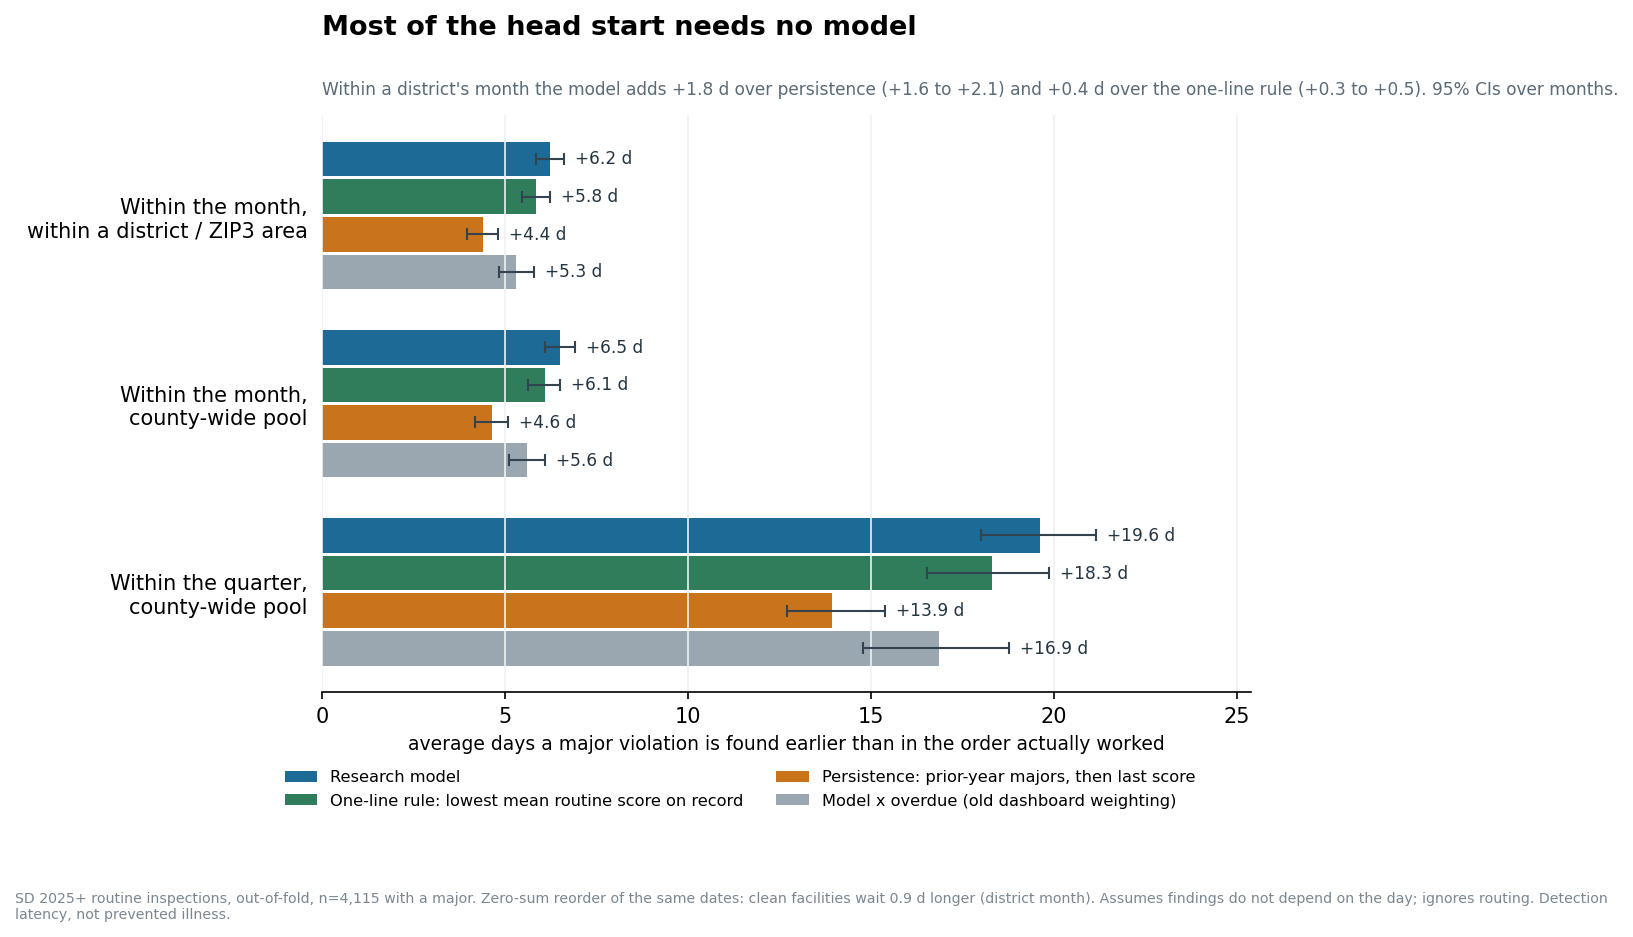
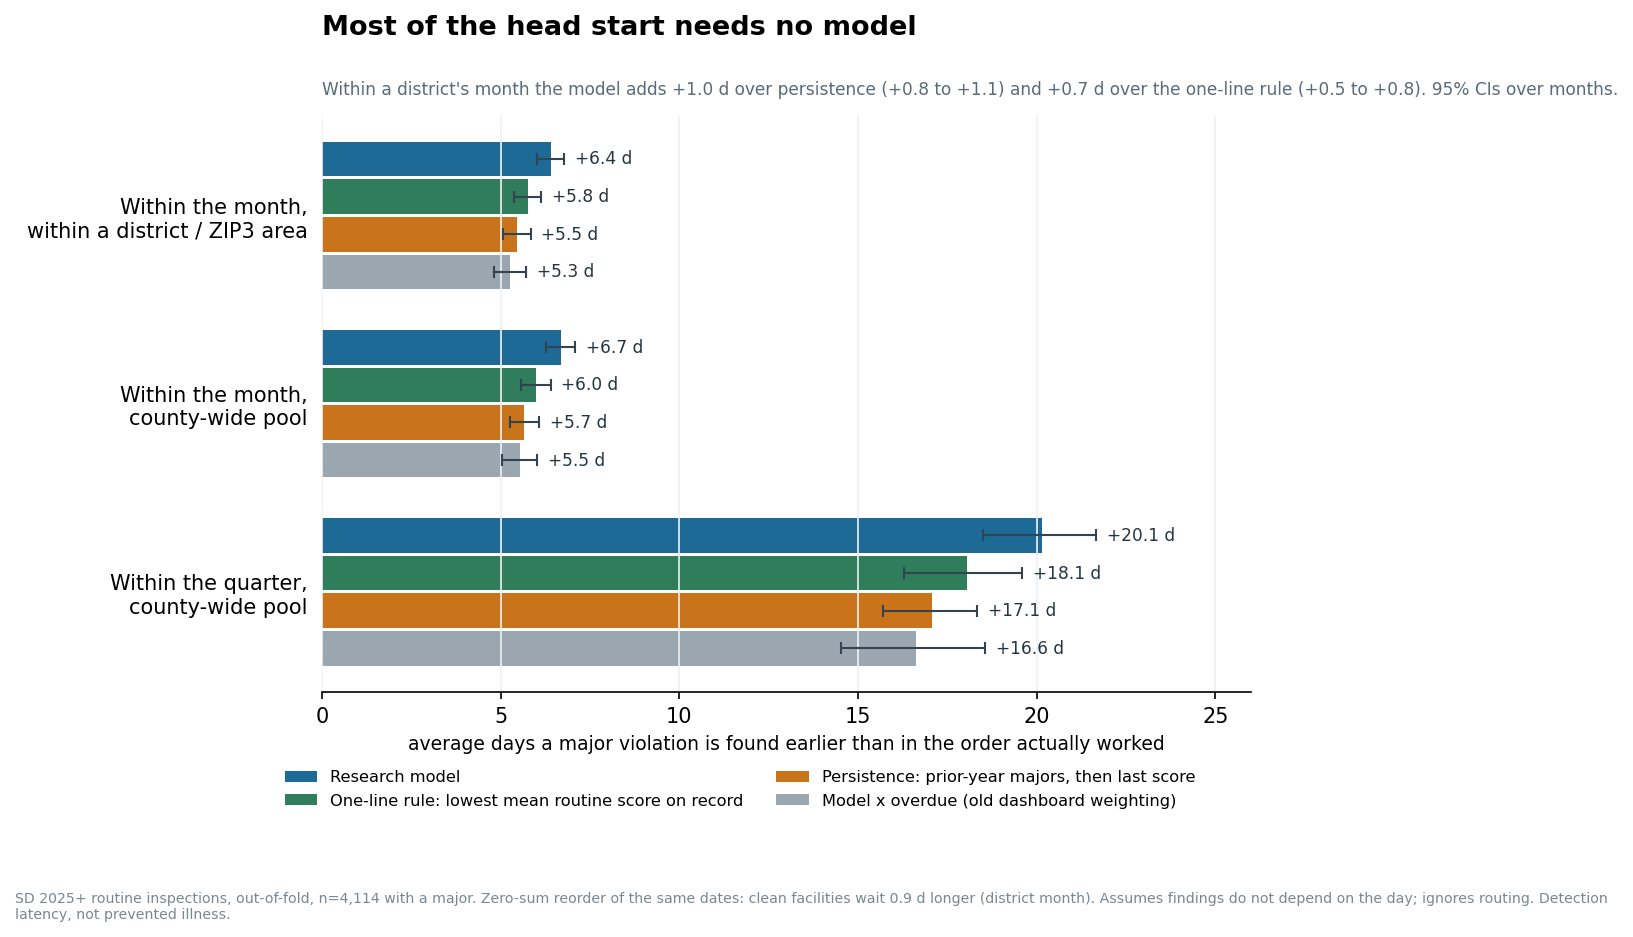
Regenerate figures and the dashboard on the real data; state days as a share of the routine gap
Charts and dashboard.html rebuilt from the 2026-09-19 pull (CSV rebuilt with
fetch_sdfood.py --csv-only; inspections through 2026-09-18) after the
September 2026 fixes. The page is still counts only and passes privacy_gate.

Template text now says what its numbers support: days sooner comes with its
share of the 277-303-day gap between routine inspections, the income coverage
gaps come with their ZIP-clustered intervals, and "with ZIP it was just as
accurate" is corrected (with ZIP the model ranks slightly worse, AUC -0.006,
95% CI -0.011 to -0.002). export_dashboard.py computes the new fields from
data/research_results.json, so the page still has no hand-typed figures.

diff --git a/dashboard.template.html b/dashboard.template.html
@@ -79,7 +79,7 @@ tbody tr:last-child td{border-bottom:none}
     <div class="card"><img src="IMG_GAINS" alt="Cumulative gains for the one-line rule, the research model and persistence">
       <p><b>Inspect the top 20% first and find ~<span data-s="top20_rule"></span> of all major violations</b> (20% on the calendar alone). That is the <b>one-line rule</b>: lowest mean routine score on record first, <span data-s="lift_rule"></span> the base rate of <span data-s="base_rate"></span>. The research model finds <span data-s="top20"></span> and persistence (prior-year majors, then last score) <span data-s="top20_persistence"></span>. Tested on <span data-s="test_n"></span> inspections none of them saw.</p></div>
     <div class="card"><img src="IMG_DAYS" alt="Days earlier major violations are found under each ordering">
-      <p><b>Within a council district's (or ZIP3 area's) month, the rule's order finds major violations ~<span data-s="days_rule"></span> days sooner</b> than the order actually worked (95% CI <span data-s="days_rule_ci"></span>). The research model adds <span data-s="days_over_rule"></span> day (95% CI <span data-s="days_over_rule_ci"></span>). Clean facilities wait <span data-s="clean_wait"></span> day longer. It assumes a finding does not depend on the day of the month and leaves routing aside: detection within an already-scheduled batch.</p></div>
+      <p><b>Within a council district's (or ZIP3 area's) month, the rule's order finds major violations ~<span data-s="days_rule"></span> days sooner</b> than the order actually worked (95% CI <span data-s="days_rule_ci"></span>): <span data-s="days_rule_share"></span> of the <span data-s="gap"></span>-day gap between a facility's routine inspections. The research model adds <span data-s="days_over_rule"></span> day (95% CI <span data-s="days_over_rule_ci"></span>; <span data-s="days_over_rule_share"></span> of that gap). Clean facilities wait <span data-s="clean_wait"></span> day longer. It assumes a finding does not depend on the day of the month and leaves routing aside: detection within an already-scheduled batch.</p></div>
   </div>
   <div class="note"><b>Trained</b> on routine inspections <b><span data-s="train_span"></span></b>; <b>tested</b> on <b><span data-s="test_span"></span></b> (<span data-s="test_n"></span> inspections). Every figure on this page comes from that held-out window.<br><br><b>Stable across time:</b> AUC <span data-s="auc_rolling_rule"></span> for the rule and <span data-s="auc_rolling"></span> for the model over three separate cutoffs (main test: rule <span data-s="auc_rule"></span>, model <span data-s="auc"></span>, persistence <span data-s="auc_persistence"></span>). Differences carry paired bootstrap 95% CIs. Method and code in the repository.</div>
 
@@ -88,7 +88,7 @@ tbody tr:last-child td{border-bottom:none}
     <div class="card"><img src="IMG_FAIRNESS" alt="Predicted vs actual major-violation rate by ZIP income quartile">
       <p><b>Flag rates and actual rates.</b> The model's predicted rate is within <span data-s="cal_min"></span> to <span data-s="cal_max"></span> points of the actual rate in every ZIP-income quartile. Actual rates are nearly flat across income (<span data-s="actual_ratio"></span>, lowest to highest quartile), and the rule flags low-income ZIPs at <span data-s="rule_flag_ratio"></span> the rate of high-income ones (the model: <span data-s="flag_ratio"></span>).</p></div>
     <div class="card" style="display:flex;flex-direction:column;justify-content:center">
-      <p style="font-size:13.5px"><b>Coverage by income group.</b> Share of major violations in the top 20%, lowest to highest income quartile: one-line rule <b><span data-s="recall_rule"></span></b>; research model <span data-s="recall_model"></span>. With about 24 ZIPs per quartile, differences of a few points are within chance: this shows no detectable gap, not proven evenness (intervals in <code>FAIRNESS.md</code>). The model uses no ZIP code: with ZIP it was just as accurate, and its coverage ran <span data-s="recall_zip"></span>.</p>
+      <p style="font-size:13.5px"><b>Coverage by income group.</b> Share of major violations in the top 20%, lowest to highest income quartile: one-line rule <b><span data-s="recall_rule"></span></b>; research model <span data-s="recall_model"></span>. Lowest minus highest quartile: rule <span data-s="recall_gap_rule"></span>, model <span data-s="recall_gap"></span>. Both intervals (which resample whole ZIPs) cover zero: no detectable gap, not proven evenness. The model uses no ZIP code: with ZIP it ranked slightly worse (AUC <span data-s="zip_auc"></span>) and its coverage ran <span data-s="recall_zip"></span>.</p>
       <p style="font-size:13.5px"><b>Safeguards:</b> keep routine inspections everywhere (this reorders visits within the schedule, it removes none) and monitor coverage by group. Full numbers in <code>FAIRNESS.md</code>.</p></div>
   </div>
 
@@ -115,7 +115,7 @@ $("#stats").innerHTML=[
   ["g",S.routine_per_yr?.toLocaleString(),"routine inspections / yr"],
   ["",S.major_per_yr?.toLocaleString(),"routine inspections finding a major violation / yr"],
   ["g",S.top20_rule!=null?S.top20_rule+"%":null,"of major violations in the rule's top 20%"],
-  ["g",S.days_rule!=null?"+"+S.days_rule+" d":null,"major violations found sooner, rule's order (district month)"],
+  ["g",S.days_rule!=null?"+"+S.days_rule+" d":null,`major violations found sooner, rule's order (district month; ${(S.t||{}).days_rule_share??"—"} of the routine gap)`],
 ].map(([c,n,l])=>`<div class="stat ${c}"><b>${n??"—"}</b><span>${l}</span></div>`).join("");
 document.querySelectorAll("[data-s]").forEach(el=>{el.textContent=(S.t||{})[el.dataset.s]??"—";});
 

diff --git a/export_dashboard.py b/export_dashboard.py
@@ -118,6 +118,13 @@ def main():
     pct = lambda v: f"{v*100:.0f}%"
     rng2 = lambda v: f"{min(v):.2f}–{max(v):.2f}"
     ci2 = lambda c: f"{c[0]:.1f}–{c[1]:.1f}"
+    # days sooner as a share of the gap between routine inspections (277 d after a major, 303 after none)
+    gap = (M["premise"]["gap_after_major"], M["premise"]["gap_after_clean"])
+    share = lambda days, nd=1: f"{days/gap[1]*100:.{nd}f}–{days/gap[0]*100:.{nd}f}%"
+    CI = F["ci_income"]
+    rgap = lambda k, lo, hi: (f"{F[lo] - F[hi]:+.1f} pts (95% CI {CI[k]['recall_gap_low_minus_high_pts'][0]:+.1f} to "
+                              f"{CI[k]['recall_gap_low_minus_high_pts'][1]:+.1f})")
+    zab = M["ablation"]["with ZIP"]
     d = insp[insp["insp_type"].astype(str) == "Routine"]
     routine_2025 = int((d["completed_date"].dt.year == 2025).sum())
     major_2025 = int(((d["completed_date"].dt.year == 2025) & (d["major"] == 1)).sum())
@@ -142,6 +149,11 @@ def main():
         "days_over_rule": f"{MM[RL]['days']:.1f}", "days_over_rule_ci": ci2(MM[RL]["ci"]),
         "days_overdue": f"{A['Model x overdue (old dashboard)']['days_earlier']:.1f}",
         "clean_wait": f"{abs(A[RL]['clean_days']):.1f}",
+        "gap": f"{gap[0]}–{gap[1]}", "days_share": share(A["Model"]["days_earlier"]),
+        "days_rule_share": share(A[RL]["days_earlier"]), "days_over_rule_share": share(MM[RL]["days"], 2),
+        "recall_gap": rgap("model", "recall_low", "recall_high"),
+        "recall_gap_rule": rgap("rule", "rule_recall_low", "rule_recall_high"),
+        "zip_auc": f"{zab['auc']:+.3f}, 95% CI {zab['auc_ci'][0]:+.3f} to {zab['auc_ci'][1]:+.3f}",
         "flag_ratio": f"{F['flag_ratio']:.2f}×", "rule_flag_ratio": f"{F['rule_flag_ratio']:.2f}×",
         "actual_ratio": f"{F['actual_ratio']:.2f}×",
         "recall_model": rec("recall_of_crit_%"), "recall_rule": rec("rule_recall_%"), "recall_zip": rec("zip_recall_%"),
